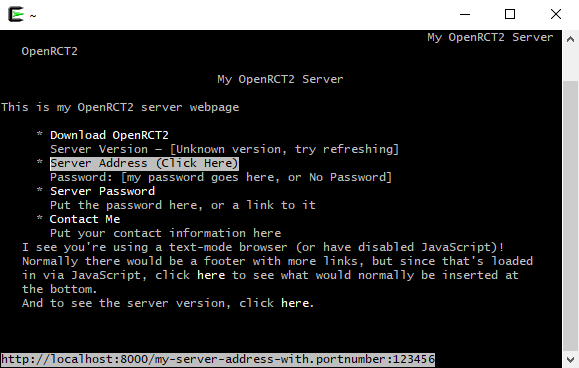
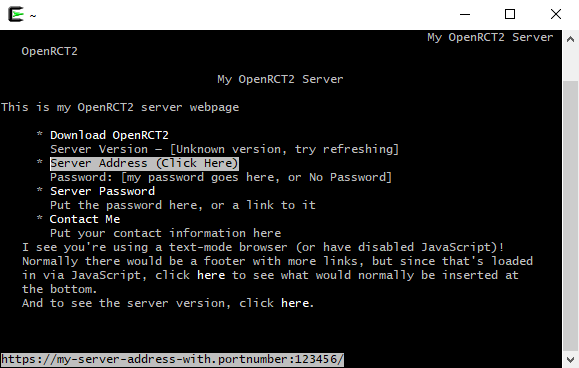
Fixed incorrect link being displayed when hovered over on some browsers

Changed region(s): [[0.0311, 0.9565, 0.7772, 1.0]]

diff --git a/index.html b/index.html
@@ -54,8 +54,9 @@ along with this program. If not, see <http://www.gnu.org/licenses/>.
         </div>
       </li>
       <li>
-        <a href="my-server-address-with.portnumber:123456" onclick="if(this.textContent == 'Server Address (Click Here)'){this.textContent = 'my-server-address-with.portnumber:123456'} else {this.textContent = 'Server Address (Click Here)'}">Server Address (Click Here)</a>
-        <!-- You could do 'a href="javascript:void(0)"', but by putting the actual address into the href and the onclick, people who have disabled JavaScript or are using text-only browsers (i.e. Links, Elinks, Emacs/W3) can still view the link when their cursor moves over the text. -->
+        <a href="https://my-server-address-with.portnumber:123456" onclick="if(this.textContent == 'Server Address (Click Here)'){this.textContent = 'my-server-address-with.portnumber:123456'} else {this.textContent = 'Server Address (Click Here)'}">Server Address (Click Here)</a>
+        <!-- You could do 'a href="javascript:void(0)"', but by putting the actual address into the href and the onclick, people who have disabled JavaScript or are using text-only browsers (i.e. Links, Elinks, Emacs/W3) can still view the link when their cursor moves over the text.
+        Make sure to include an http:// or https:// in the href. Even though OpenRCT2 cannot resolve that in a server address, if you do not include it, the link displayed when hovered over will be "https://my.address.here/my.server.address.here:123456" in some browsers.-->
         <div class="information">Password: [my password goes here, or No Password]</div>
       </li>
 	    <li>
